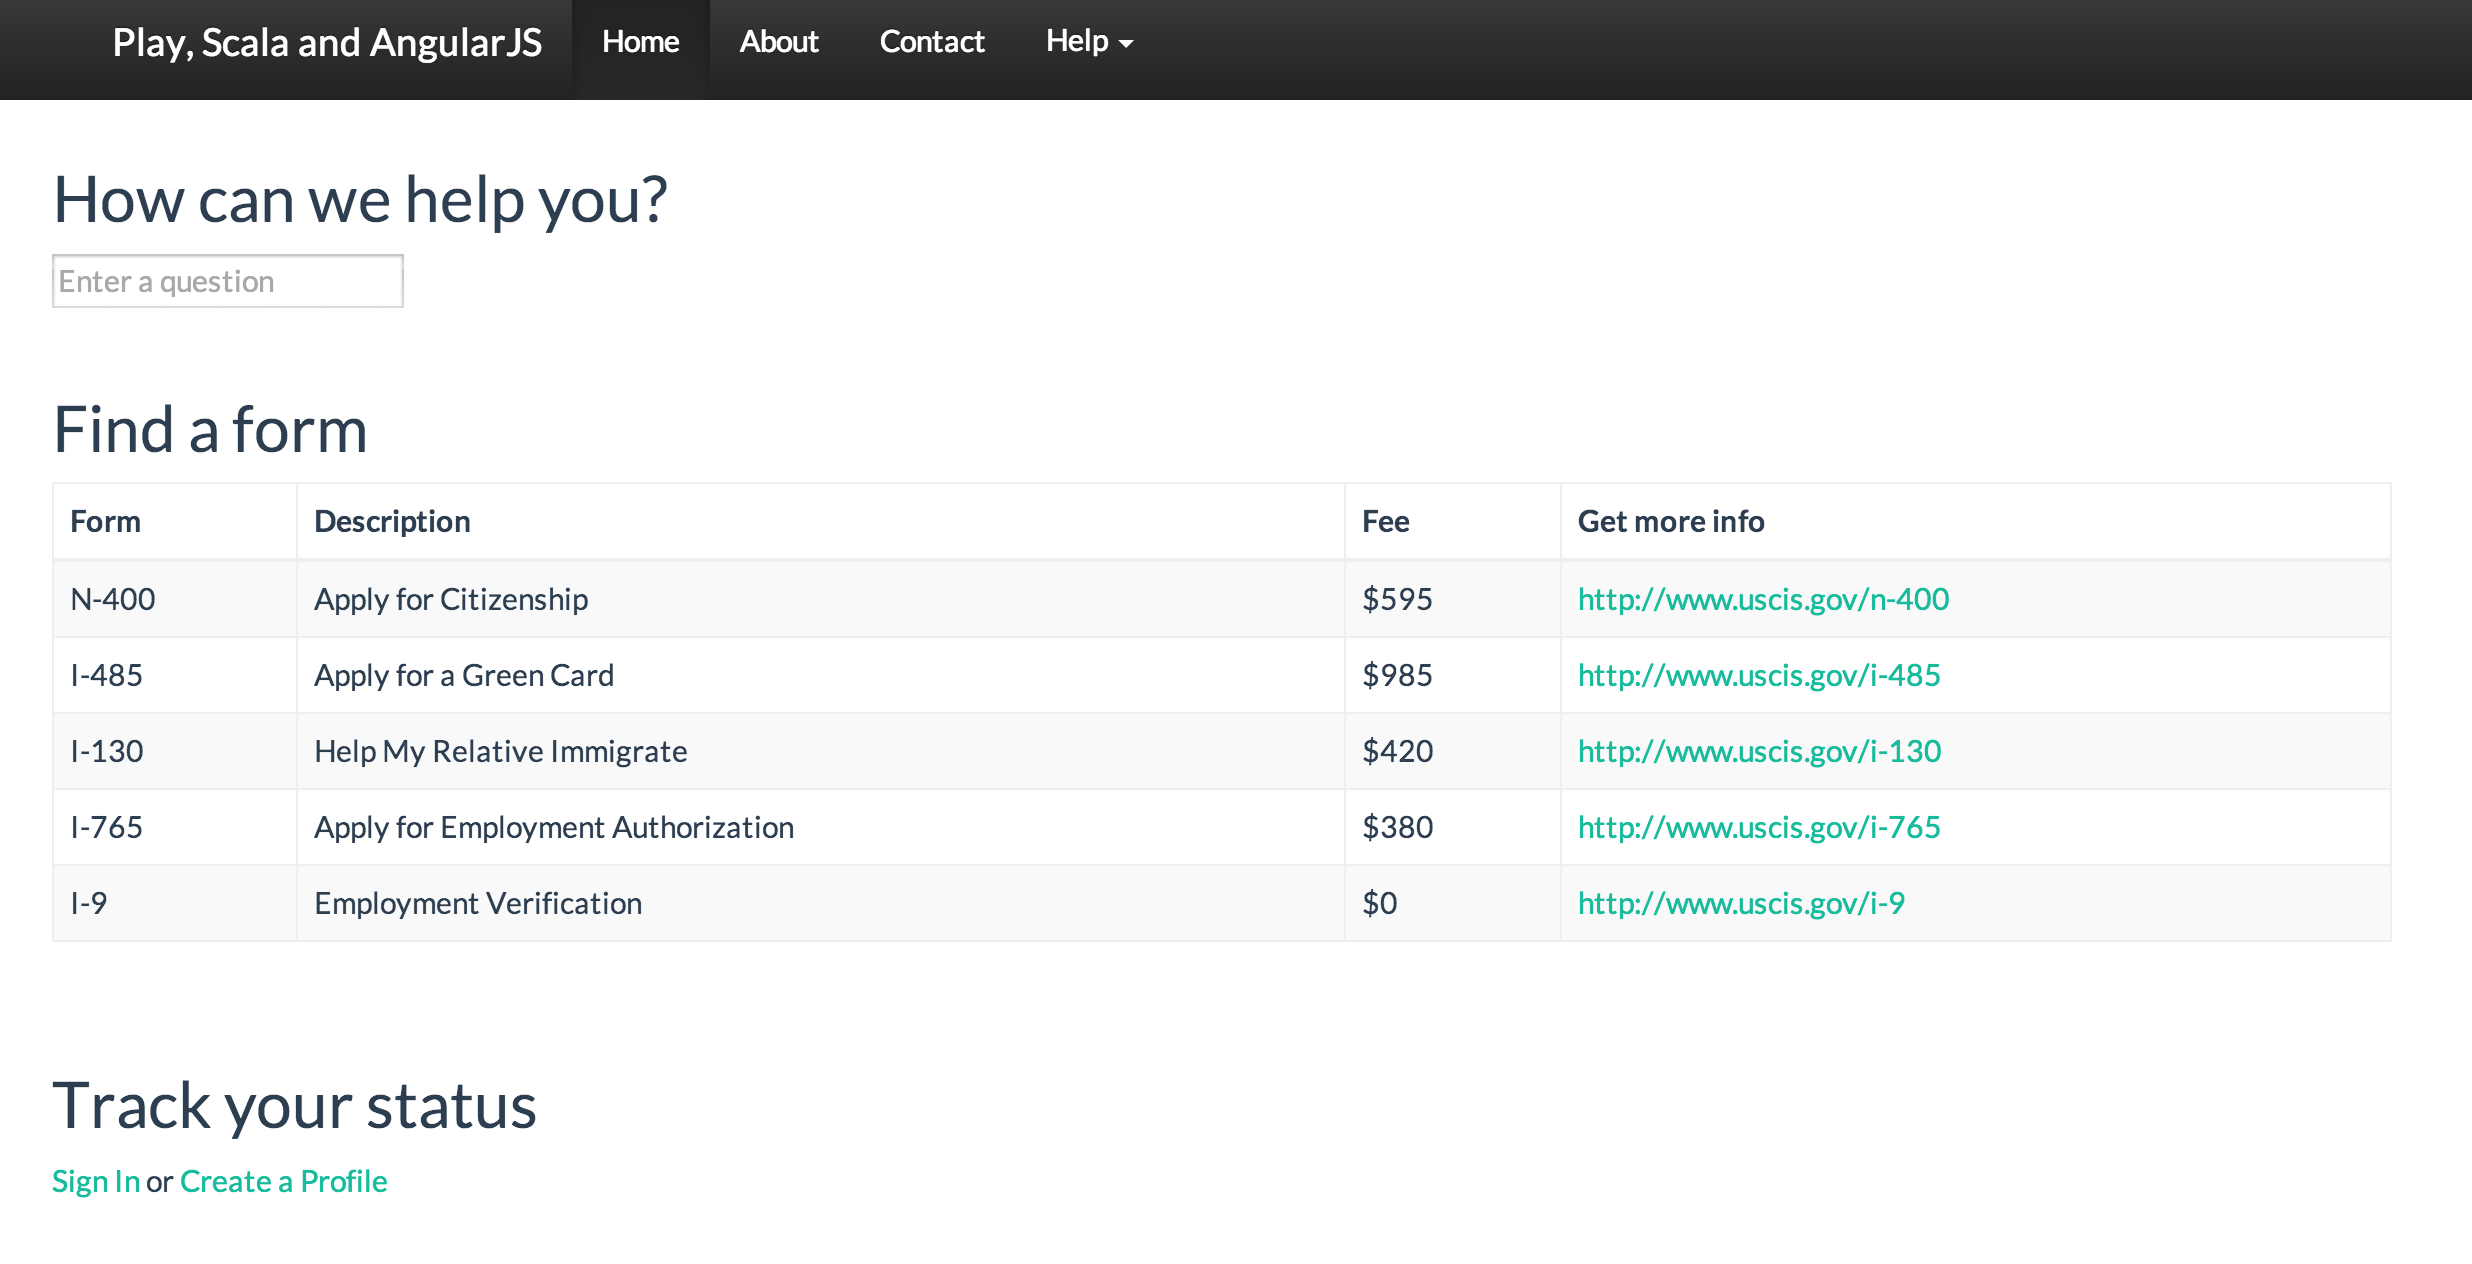
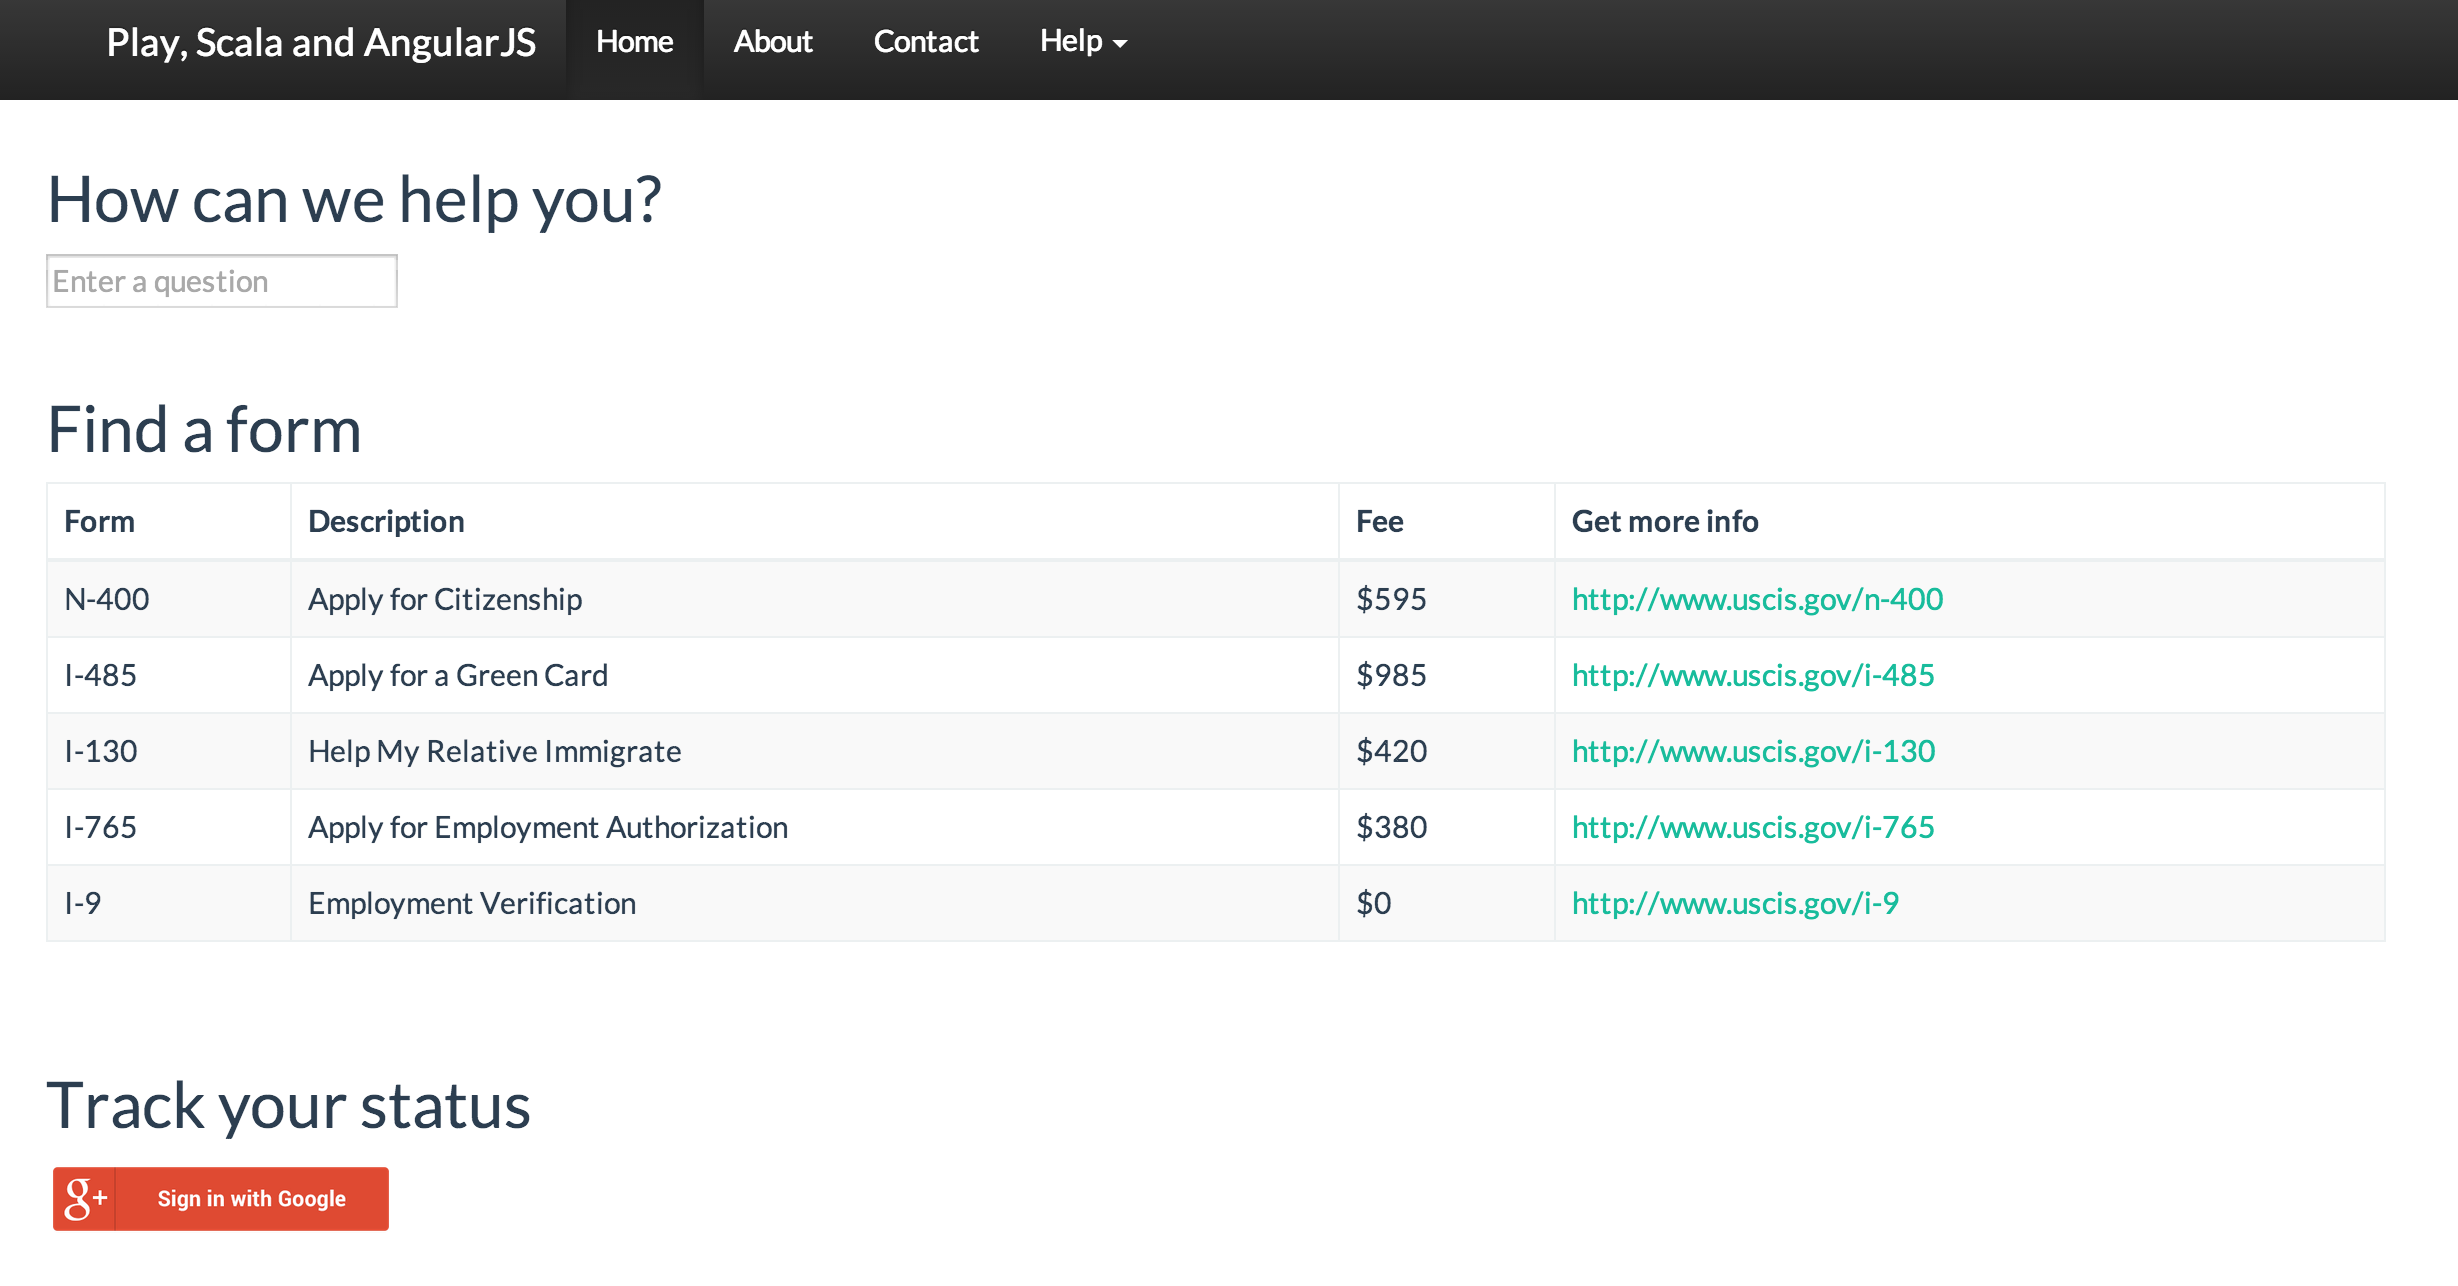
readme changes

diff --git a/README.md b/README.md
@@ -1,22 +1,75 @@
 ![home](./screens/home.png)
 
-This is a simple demo app using AngularJS and the Play framework with Scala and MongoDB. You can run and develop the app locally, and with the provided Vagrant and Chef cookbooks you can set up a mini CI/CD environment in a VM that uses Jenkins to pull the code from this repository, test and run the app in a VM.
+This is a demo of a RESTFul web app with 3rd party authentication and profile creation/edit. You can run and develop the app locally and set up a mini CI/CD environment in a VM that pulls the code from this repository, tests and runs the app.
+
+Technologies used:
+* Play framework with Scala
+  * Asynchronous JSON REST APIs
+  * ReactiveMongo plugin for async MongoDB connections
+  * SecureSocial plugin for authentication with Google
+* AngularJS for client side JavaScript templating
+* Bootstrap
+* MongoDB for data storage
+* Vagrant and Chef Solo for VM provisioning
+* Jenkins for build/test/deploy automation in the VM
 
 A picture's worth a thousand words.
 
 ![play_ci](./screens/play_ci.png)
 
-## 1. Pre-req installations
+## 1. Required installs
 
 * Java 6 or higher
 * Play framework for local dev - http://www.playframework.com/download (Use the Typesafe Activator for local dev)
 * VirtualBox - https://www.virtualbox.org/wiki/Downloads
 * Vagrant - http://www.vagrantup.com/downloads.html
-* Git - if you don't already have
+* Git - if you don't already have (clone this repo)
+* Ruby - needed to run a config script for local environment
 
-## 2. Vagrant
+## 2. Google setup
 
-Create a new Linux VM or start a pre-existing one. Default specs: Ubuntu 64 bit, 4GB RAM.
+The demo web app allows login using Google username/password. This is done using Google's OAuth APIs, which require the calling app to provide a client id and secret key for using the API. We cannot share client id and secret in a public GitHub site, so you must register your own app on Google's site and configure the app to use your credentials when making OAuth API calls.
+
+1. Login here with a Google Id: https://cloud.google.com/console
+2. Create Project (name doesn't matter)
+3. Go to APIs & auth - APIs - enable the Google+ API access
+4. Go to APIs & auth - Credentials - OAuth
+5. Create New Client ID:
+Select Web application
+Authorized Javascript origins - enter: http://local.example.com:9000
+Authorized redirect URI - enter: http://local.example.com:9000/app/authenticate/google
+Download JSON - you will need the client_id and client_secret values from this file for setup
+6. Create New Client ID:
+Select Web application
+Authorized Javascript origins - enter: http://vm.example.com:9000
+Authorized redirect URI - enter: http://vm.example.com:9000/app/authenticate/google
+Download JSON
+
+![google](./screens/google.png)
+
+7. You need to run a provided Ruby script that will update config files with your client_id and client_secret values you received from Google.
+
+    $ cd scripts
+    $ ruby vars.rb --local_client_id yourvalue --local_client_secret yourvalue --vm_client_id yourvalue --vm_client_secret yourvalue
+
+8. You need to update your local hosts file to add entries for local.example.com and vm.example.com.
+
+Mac OS:
+
+    $ sudo vi /etc/hosts
+
+Windows:
+
+    $ C:\Windows\System32\Drivers\etc\HOSTS
+
+Add the following entries to the file:
+
+    $ 127.0.0.1      local.example.com
+    $ 192.168.33.10  vm.example.com
+
+## 3. Vagrant
+
+This creates a new Linux VM - Ubuntu 64 bit, 4GB RAM.
 
     $ cd vagrant
     $ vagrant up
@@ -48,11 +101,14 @@ Then:
     $ # remove the VM completely
     $ vagrant destroy
 
-## 3. MongoDB in the VM
+    $ # start again
+    $ vagrant up
 
-Verify MongoDB is up in the VM: http://192.168.33.10:28017/
+## 4. MongoDB in the VM
 
-## 4. Start Play locally
+Verify MongoDB is up in the VM: http://vm.example.com:28017/
+
+## 5. Start Play locally
 
 Mac OS:
 
@@ -62,17 +118,19 @@ Windows:
 
     $ activator.bat ui
 
-This will open a browser using the Typesafe Activator, compile the app code, run tests, and start the app in dev mode. When it's done to see the app go to: http://localhost:9000/
+This will open a browser using the Typesafe Activator, compile the app code, run tests, and start the app in dev mode. When it's done to see the app go to: 
 
-## 5. Jenkins in the VM
+http://local.example.com:9000/
+
+## 6. Jenkins in the VM
 
 The job is configured to automatically poll the GitHub repo every 60 seconds and execute.
 
-To view or manually start the job that builds and runs the app: http://192.168.33.10:8080/job/angular_play_scala
+To view or manually start the job that builds and runs the app: http://vm.example.com:8080/job/angular_play_scala
 
-## 6. See the Play app in the VM
+## 7. See the Play app in the VM
 
-Go to: http://192.168.33.10:9000/
+Go to: http://vm.example.com:9000/
 
 ## Screens
 
@@ -87,6 +145,5 @@ Go to: http://192.168.33.10:9000/
 * Jenkins hangs and never exits from the job when it starts up Play in Prod mode (Play is working and just keeps listening). Find way to spawn process outside of Jenkins and to kill when pulling changes/restart.
 * Integrate Berkshelf for Chef recipe dependency management
 * Add option for provisioning and deploying on AWS EC2
-* Create Vagrant base box with the software above already installed on it
 * For some reason the MongoDB Chef cookbook doesn't support creating user authentication passwords. Fork https://github.com/edelight/chef-mongodb, add support and submit pull request.
 * Add static analysis via Sonar or something else: http://community.opscode.com/cookbooks/sonar
